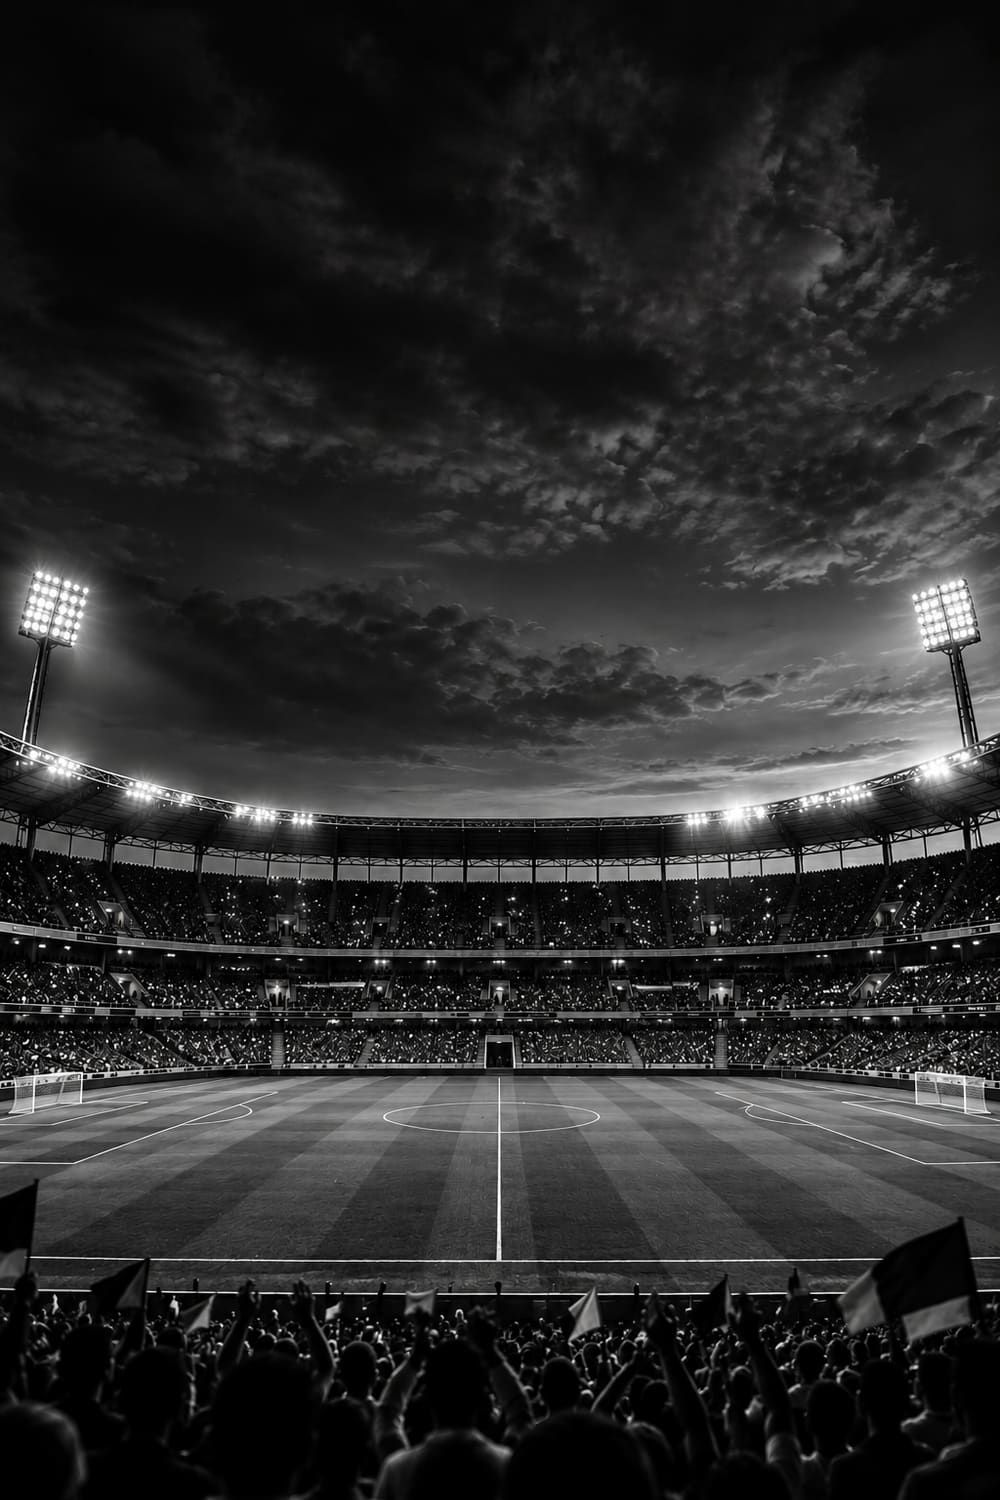
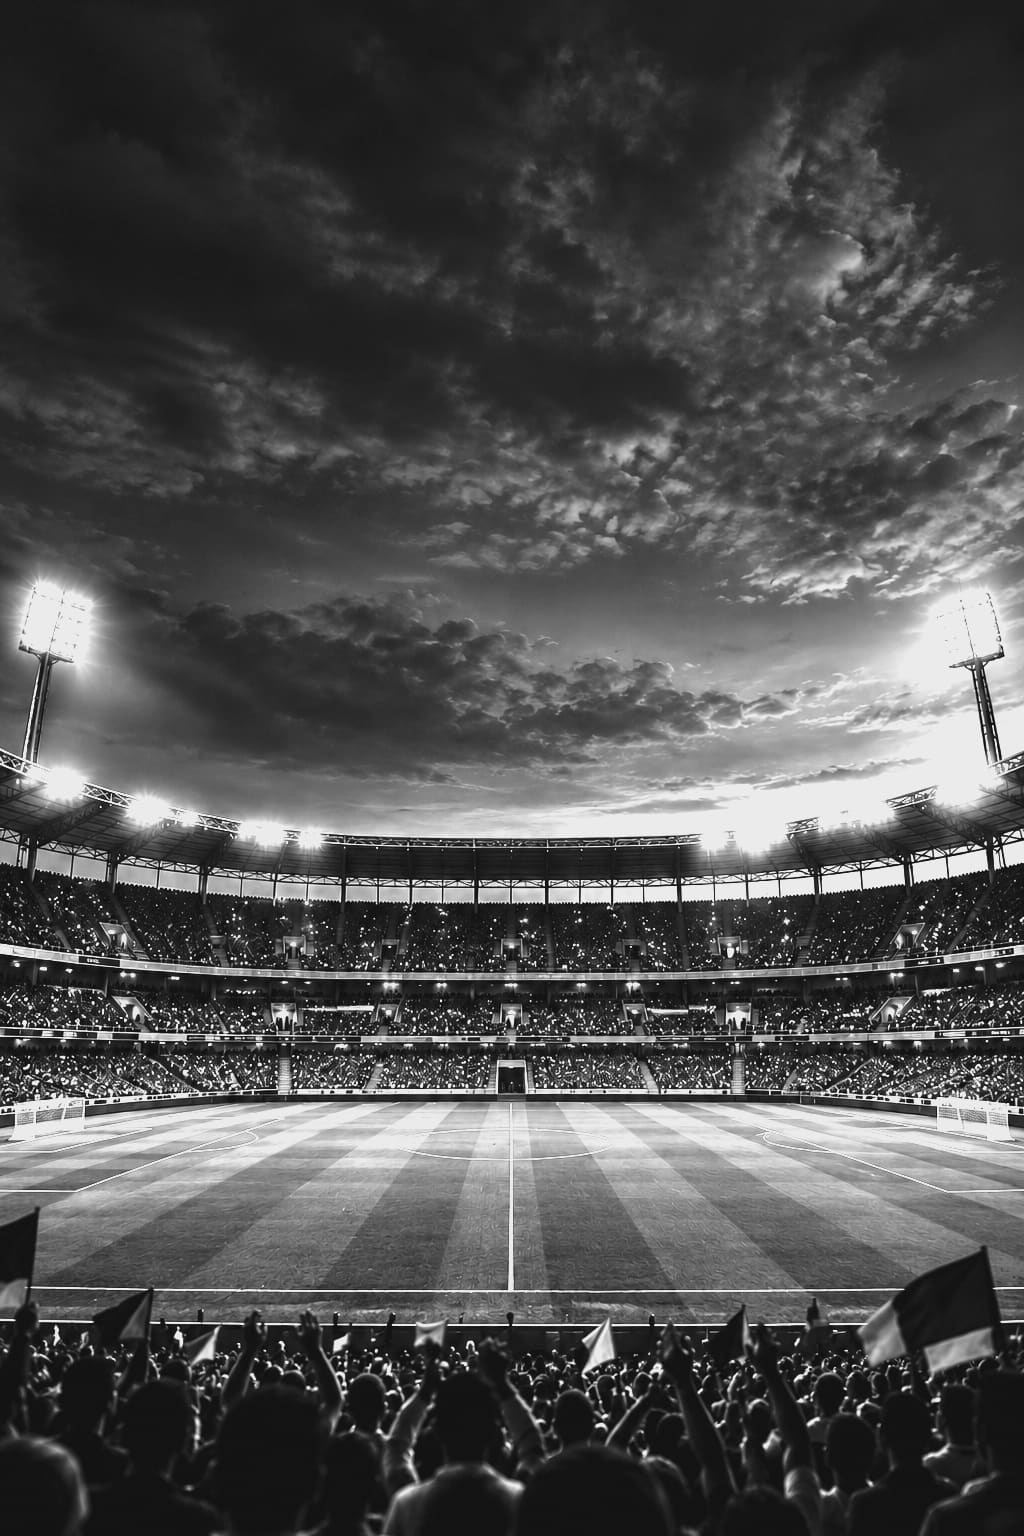
perf(billeterie): bake background filter into pixels, fix trophy transparency
- The trophy icon had been flattened to JPEG during compression, which
  turned its transparent background into a visible white box once it
  sat over the stadium photo. Reverted it to an optimized, still-
  transparent PNG (1.3MB -> 82KB).
- Moved the stadium background's grayscale/brightness/contrast look
  from a CSS `filter` (recomputed by the browser on every page of a
  batch — one of the more expensive paint operations, and the likely
  cause of slow print-preview loading on 100-ticket batches) into the
  image itself at compression time, both for the bundled default and
  for uploads. Re-baked it into the already-uploaded test background
  too so it keeps looking right now that the CSS filter is gone.

diff --git a/app/api/billeterie/custom-assets/route.ts b/app/api/billeterie/custom-assets/route.ts
@@ -41,16 +41,25 @@ export async function POST(request: Request) {
   // few hundred CSS px, so an untouched phone photo (often several MB) just
   // bloats every printed ticket for no visible gain. Logos are flattened to
   // white since they're always shown on the ticket's white header area.
+  // Backgrounds get the grayscale/brightness/contrast look baked into the
+  // pixels once here instead of a CSS filter the browser would otherwise
+  // have to recompute on every single printed page of a batch.
   try {
     const sharp = (await import("sharp")).default;
-    const maxWidth = kind === "logo" ? 600 : 1200;
-    const quality = kind === "logo" ? 85 : 78;
-    buffer = await sharp(buffer)
-      .rotate()
-      .resize({ width: maxWidth, withoutEnlargement: true })
-      .flatten({ background: "#ffffff" })
-      .jpeg({ quality, mozjpeg: true })
-      .toBuffer();
+    let pipeline = sharp(buffer).rotate();
+    if (kind === "logo") {
+      pipeline = pipeline
+        .resize({ width: 600, withoutEnlargement: true })
+        .flatten({ background: "#ffffff" });
+    } else {
+      pipeline = pipeline
+        .resize({ width: 1200, withoutEnlargement: true })
+        .flatten({ background: "#ffffff" })
+        .grayscale()
+        .modulate({ brightness: 1.75 })
+        .linear(0.85, 128 * (1 - 0.85));
+    }
+    buffer = await pipeline.jpeg({ quality: kind === "logo" ? 85 : 78, mozjpeg: true }).toBuffer();
     contentType = "image/jpeg";
     ext = "jpg";
   } catch {

diff --git a/app/api/billeterie/print-batch/route.ts b/app/api/billeterie/print-batch/route.ts
@@ -120,7 +120,6 @@ body { background:#fff; }
 .fin-bg {
   position:absolute; left:0; right:0; top:270px; height:1040px;
   background-color:#fff; background-position:center 62%; background-size:cover; background-repeat:no-repeat;
-  filter: grayscale(1) brightness(1.75) contrast(.85);
 }
 .fin-bg-fade {
   position:absolute; left:0; right:0; top:270px; height:1040px;
@@ -135,7 +134,7 @@ body { background:#fff; }
 
 .fin-title-block { position:absolute; left:0; right:0; top:340px; display:flex; flex-direction:column; align-items:center; }
 .fin-title-row { position:relative; width:100%; display:flex; justify-content:center; }
-.fin-troph { position:absolute; top:6px; width:160px; height:107px; background-image:url('/billet-finales/trophy.jpg'); background-repeat:no-repeat; background-size:200% 100%; }
+.fin-troph { position:absolute; top:6px; width:160px; height:107px; background-image:url('/billet-finales/trophy.png'); background-repeat:no-repeat; background-size:200% 100%; }
 .fin-troph-l { left:84px; background-position:0 0; }
 .fin-troph-r { right:84px; background-position:100% 0; }
 .fin-title-main { font-family:'Anton',sans-serif; font-size:108px; line-height:1; letter-spacing:1px; }
